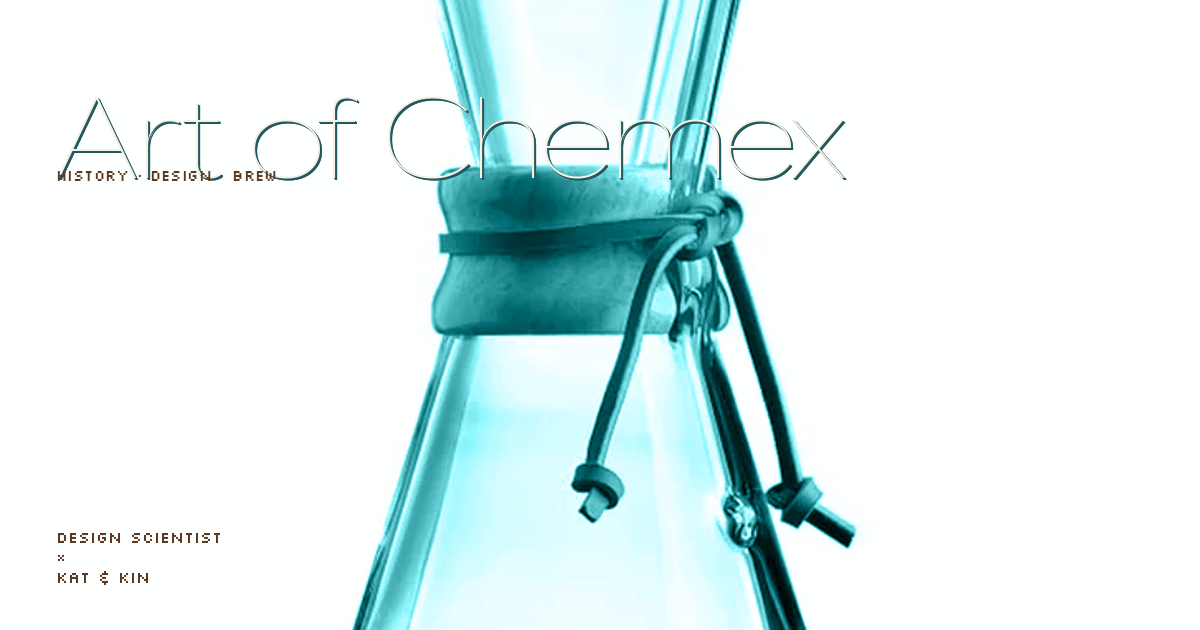
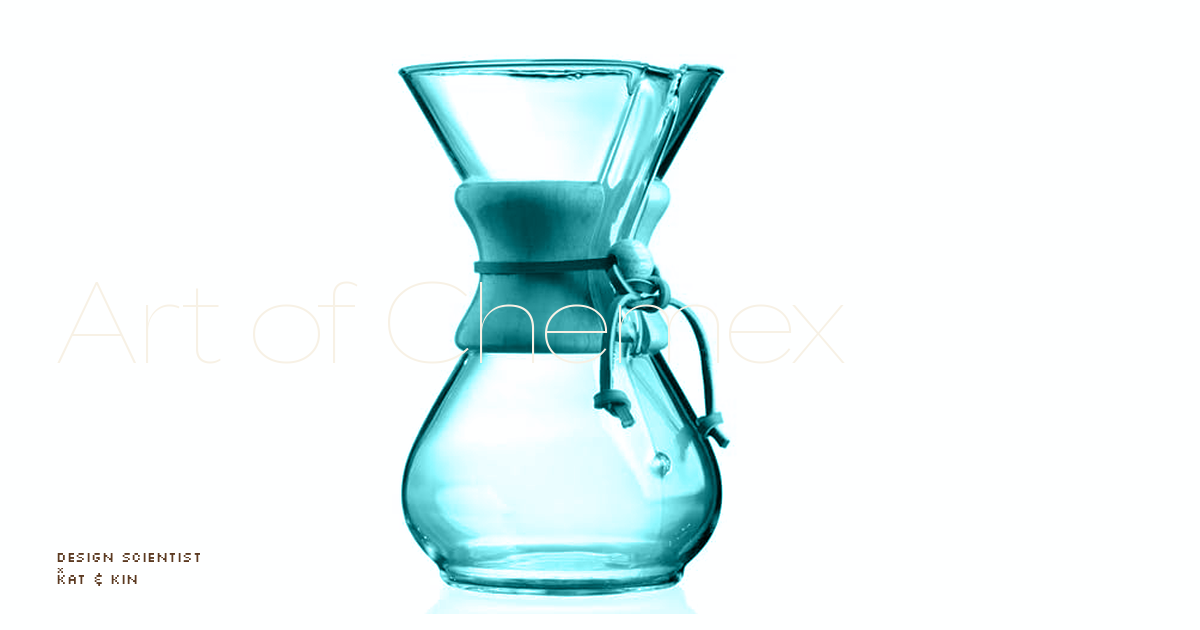
Rebuild OG from studio-white-front + turquoise Color; drop subtitle
Use chemex-studio-white-front.jpg (not alt/rembg), full-frame #4bb4bb
Color blend, cream Flex title, BL Silkscreen credits; no brew/design tag.

diff --git a/NOTES.md b/NOTES.md
@@ -96,7 +96,7 @@ Locked in OG lab (`/workspace/chemex-og-lab` on the shared box) and mirrored to 
 | opsz | **144** |
 | Title size | **113 px** |
 | Image scale | **95%** |
-| Subtitle | **HISTORY · DESIGN · BREW** |
+| Subtitle | **none** (removed) |
 | Background | `#4bb4bb` |
 | Title color | white/cream (`#F7F1E5` in tokens; lab bake also used `#FFFFFF`) |
 | Credits | Silkscreen coffee `#5C3A21`: **DESIGN SCIENTIST / × / KAT & KIN** |
@@ -156,6 +156,8 @@ Vendor copy may exist under `assets/vendor/huddi/` for makers; it is **not** wir
 
 ### 2026-09-07 — documentation + OG bake promotion
 
+- Rebuilt OG from `chemex-studio-white-front.jpg` + turquoise Color blend; removed HISTORY/DESIGN/BREW tag; refreshed `assets/og.png` + tokens.
+
 - Expanded this NOTES into full project log (protocol, type, workshop, brew, OG lock, hygiene, REVIEW, URLs).
 - Added `docs/PROJECT.md` cold-start TL;DR; `assets/og-tokens.json` locked tokens; copied Color-blend `og-final.png` → `assets/og.png`; OG meta in `index.html`; README Status blurb.
 
@@ -196,7 +198,7 @@ Vendor copy may exist under `assets/vendor/huddi/` for makers; it is **not** wir
 
 ## OG image (approved)
 
-- **2026-09-07** — FINAL `assets/og.png` (1200×630). White-bg Chemex right ~95% (no rembg); `#4bb4bb` Color blend; cream title Flex 90/112/144 ~113px left over image; coffee Silkscreen subtitle + BL credits. See `assets/og-tokens.json`. Desktop tab hygiene: close unused OG lab tabs after bake.
+- **2026-09-07** — FINAL `assets/og.png` (1200×630). Source `chemex-studio-white-front.jpg` (not alt/rembg); full-frame `#4bb4bb` Color blend; cream title Flex 90/112/144 ~113px left over image; coffee Silkscreen BL credits; **subtitle removed**. See `assets/og-tokens.json`.
 
 ## Conventions
 
